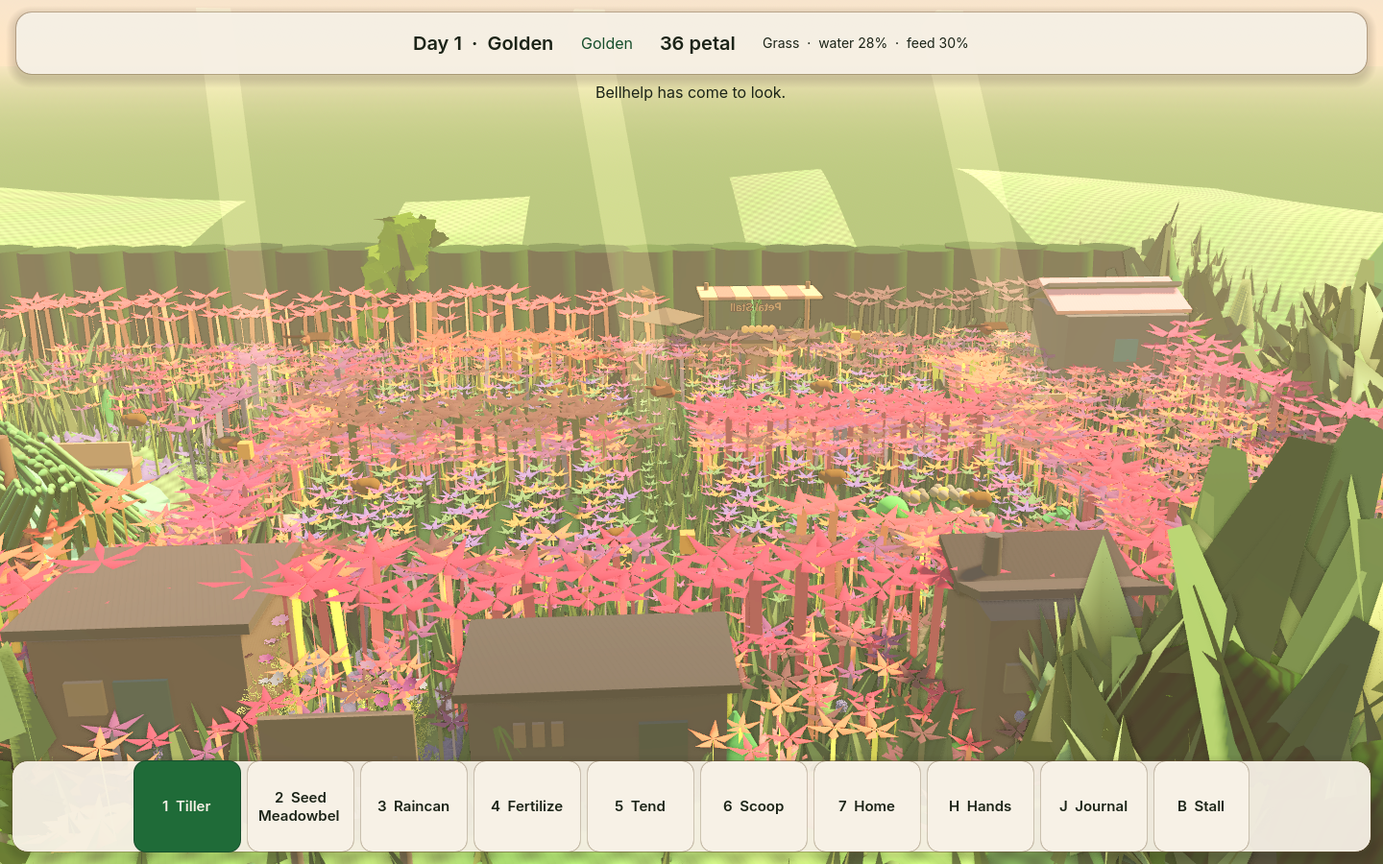
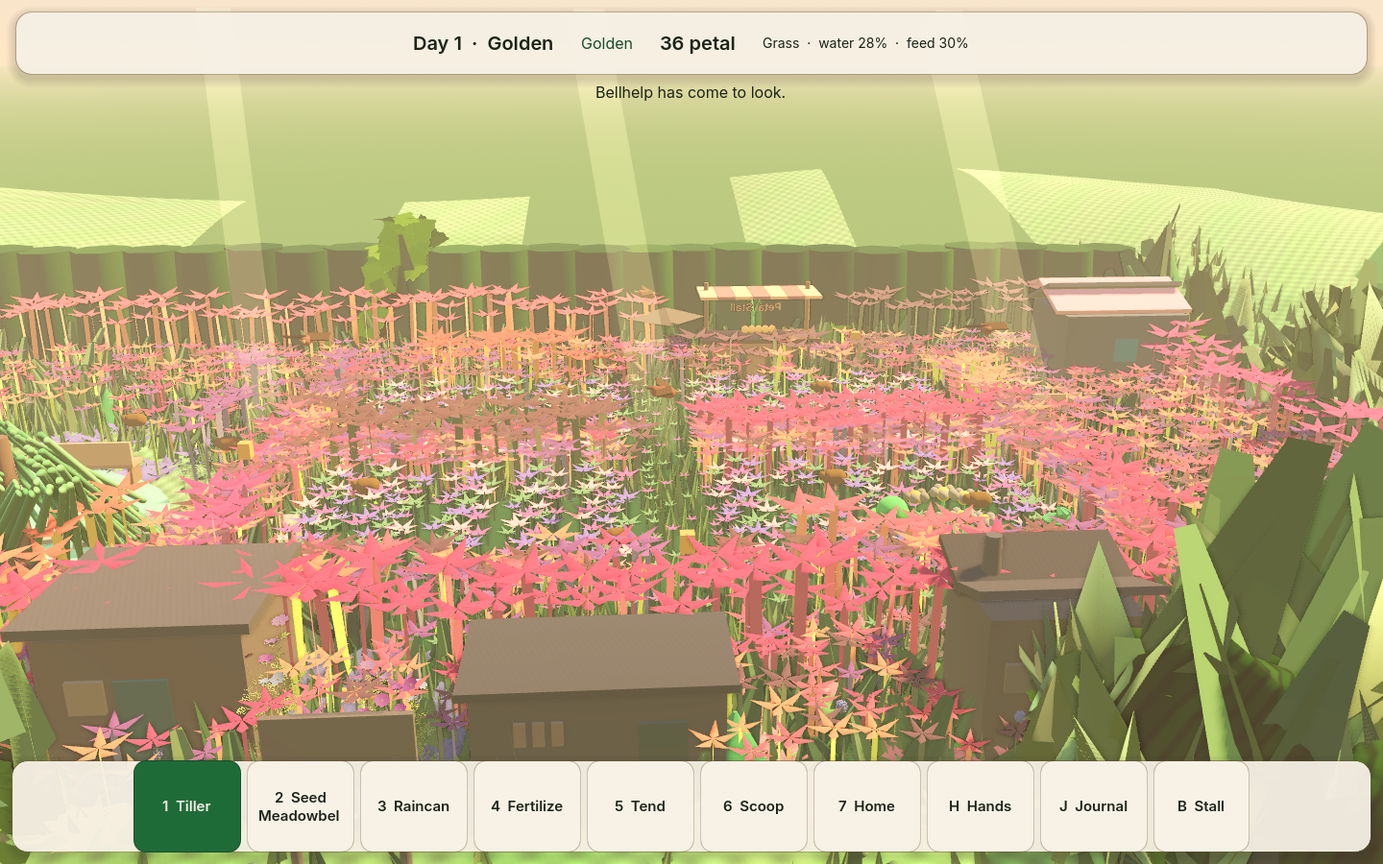
The tan bed flower reads as coral.
That rank was reading as soil. A petal at screen (926, 678) moved from (104, 115, 72) to (232, 138, 111). Hailo health answered and POST /v1/decide hung, so this was not a vote from that service.

diff --git a/docs/VISUAL_GAP.md b/docs/VISUAL_GAP.md
@@ -2,12 +2,12 @@
 
 Compared on 2026-09-23. The scene `tools/run.sh` launches is Hedge Hollow. Shots: `docs/screenshots/wave1_overview.png`, `wave1_jelly.png`, `wave1_lumen.png`. Targets: `docs/reference/petalwild_target_garden_01.png` and `petalwild_target_garden_02.png`.
 
-The north backdrop trees are shorter than the hedge. Crest leaf cards are 0.4 of their old size, and the far wall keeps one 2.5 m tuft in four. A row of dark shrubs stands just behind that wall. The east end is taller so its lip meets the hedge line. Light-green pixels in the upper opening band (screen y 265–320, x 40–1400) fell from 53% to 24%, and in the lower band (y 290–360, x 80–1200) from 36% to 13%. On the east lip (y 252–272, x 40–300) mean luminance fell from 200 to 162. The hill (y 200–245) did not change. The stall still sits in front of the middle of the wall. The bright blue band in that opening was the awning cloth, not a hole in the hedge. That stripe is darker now and reads about (171, 171, 173). A sky-blue detector on the overview (blue above 200, ahead of red by 20 and of green by 10) is 0. The shrub row behind the wall was lifting to pale green under the sun. The same light-green check (green ahead of red by 15 and of blue by 20, green above 140) now covers 1.2% of the upper band, down from 3.5% on the previous shot. The crest leaf cards and the far trees were the pale pixels in the side openings. The upper hill (screen y 200–230) stayed at about (213, 224, 148). The ground sky below the horizon is green, so a hole in the hill reads as olive rather than pale sky. Bellhelp’s close-up shows five pointed lobes, five gap tips past them, a wide short rank inside that ring, a darker band, and a wider flared whorl. The dark throat stays. The wide skirt of spheres is gone. The bench and planter use a dark multiply on the prop texture, and bright plant-atlas texels are capped. The three lantern glasses are amber instead of pure white. The pink disk by the south-west rail, the untilled grass-plot tops, the meadowbell petals, the mauve bed, the resident hands, the light flagstones, the path dirt, and the loose stones are darkened so they stay under the sun. Eight bees drift over the beds. Four birds cross the garden by day and perch at dusk and in the rain. A planted meadowbell is three bells on a leaf pad, and every crop sits in a ring of eight leaves. Pure white on this overview is 0. On the previous shot the upper-band light-green check was 1.17% and the hill mean was (212.9, 224.4, 147.6). The hedge tea house stands in the lower left of the home shot. On that shot the same check was 1.30% (969 pixels) and the hill mean was (212.0, 223.6, 146.4). The research hut stands in the lower middle of that shot, where the check was 1.17% (874 pixels) and the hill mean was (212.0, 223.6, 146.4). The media foundry stands in the lower middle of that shot, where the check was 1.15% (862 pixels) and the hill mean was (212.0, 223.6, 146.4). The town hall board now stands in the south gate. On the town-hall shot the check was 1.29% (968 pixels) and the hill mean was (212.0, 223.6, 146.4). On the six-bloom shot the check was 1.54% (1155 pixels) and the hill mean was (212.0, 223.7, 146.5). Empty untilled beds now carry nine dark leaf discs and eight short flowers, and a tilled or planted bed clears them. On the leaf-cover shot the check was 1.60% (1197 pixels) and the hill mean was (212.1, 223.8, 146.5). Neighboring empty cells now share an overlapping dark lid, so the brown seam inside a plot closes. On the joined-lid shot the check was 1.61% (1208 pixels) and the hill mean was (212.1, 223.8, 146.5). A planted cell now keeps that dark lid, so the crop sits in the meadow instead of an inset square. On the planted-lid shot the check was 1.54% (1149 pixels) and the hill mean was (212.1, 223.7, 146.5). The north and south plots now meet across the lawn, and the north-south path stays open. On the bridge shot the check was 1.57% (1176 pixels) and the hill mean was (212.2, 223.8, 146.6). Flowers now sit on both lips of the north-south path, and the path center stays open. On the path-lip shot the check was 1.61% (1204 pixels) and the hill mean was (212.1, 223.8, 146.5). Flowers now spill past the outer edges of the four beds, and the path-center pixels are unchanged. On the bed-edge shot the check was 1.45% (1083 pixels) and the hill mean was (212.2, 223.9, 146.6). The north-south track is narrower, its shoulders are meadow, and the center stays stone. On the narrow-track shot the check was 1.46% (1091 pixels) and the hill mean was (212.2, 223.9, 146.6). The south and north tracks are narrower too, with flowers on their lips. On the track-lip shot the check was 1.45% (1083 pixels) and the hill mean was (212.2, 223.9, 146.6). The wooden frames and the inner hedge around the four beds are gone. The parish hedge stays. On the open-bed shot the check was 1.26% (940 pixels) and the hill mean was (212.0, 223.6, 146.4). On the stepping-stone shot the check was 1.52% (1136 pixels) and the hill mean was (212.0, 223.7, 146.5). On the smaller-stone shot the check was 1.16% (870 pixels) and the hill mean was (212.0, 223.6, 146.4). On the open-stone shot the check was 1.28% (955 pixels) and the hill mean was (212.2, 223.9, 146.6). On the flower-track shot the check was 1.53% (1148 pixels) and the hill mean was (212.2, 223.9, 146.6). On the track-grass shot the check was 1.21% (903 pixels) and the hill mean was (212.0, 223.6, 146.4). On the worn-walk shot the ledger wrote 1.56% (1166 pixels) and the hill mean (212.1, 223.7, 146.5). The same light-green check on that file is 3.72% (2780 of 74800). Empty meadow cells carry a fuller clump: larger leaves, larger blooms, and four more flowers in the gaps. Tilling one empty cell clears twenty-one instances. On that shot the check was 3.70% (2766 of 74800) and the hill mean was (212.1, 223.7, 146.5). A planted cell now keeps eight flowers on its rim, and the stem stays clear. Opening that cell into meadow adds the other thirteen. The worn centers stay open. On that shot the check was 3.55% (2657 of 74800) and the hill mean was (212.0, 223.7, 146.4). On that shot the check was 3.80% (2841 of 74800) and the hill mean was (212.1, 223.7, 146.5). On that shot the check was 3.82% (2855 of 74800) and the hill mean was (212.1, 223.8, 146.5). The north apron above the beds carries a tighter bloom grid. The worn walks, the stall spur, the rooms, and the pond stay open. On that shot the check was 3.80% (2844). Against the file before it the band gained 82 pixels and lost 93. The hill mean was (212.1, 223.8, 146.5). 6.62% of the pixels below the horizon changed, and 0.49% above y 320. The apron band (screen y 350–400) changed 17%. The bridge strips between the north and south beds carry a tighter bloom grid. The worn center between them stays open. On that shot the check was 3.78% (2831). Against the file before it the band gained 41 pixels and lost 54. The hill mean was (212.2, 223.8, 146.6). 4.59% of the pixels below the horizon changed, and 0.27% above y 320. The bridge band (screen y 486–525, x 343–1037) changed 6%. The lawn just inside the west hedge now carries a tighter bloom grid. The hedge wall stays. On this shot the check is 3.81% (2849). Against that file the band gained 66 pixels and lost 48. The hill mean is (212.1, 223.8, 146.5). 4.73% of the pixels below the horizon changed, and 0.32% above y 320. The west band (screen y 450–700, x 1260–1440) changed 9%, and rose pixels there went from 2147 to 2749. After dusk the three path lanterns brighten. On the night shot the pond lamp moved from (199, 157, 108) to (254, 197, 114). The afternoon shot stays as it is. The north apron continues east of the beds. The worn walks stay open. On this shot the check is 3.75% (2802 of 74800). Against that file the band gained 163 pixels and lost 210. The hill mean is (212.2, 223.9, 146.6). 28.18% of the pixels below the horizon changed, and 1.78% above y 320. The east apron band (screen y 370–450, x 40–560) changed 43.6%, and rose pixels there went from 27759 to 28986. The south lawn in front of the rooms carries a tighter bloom grid. The worn walks and the south hedge stay open. On this shot the check is 3.65% (2733 of 74800). Against that file the band gained 165 pixels and lost 234. The hill mean is (212.2, 223.9, 146.6). 29.84% of the pixels below the horizon changed, and 1.77% above y 320. The south band (screen y 740–860, x 100–900) changed 21.6%, and rose pixels there went from 8225 to 11752. Pure white is 0. The sky-blue detector is 0. The stall lamp brightens while the stall is open and dims after it shuts. The afternoon home shot stays as it is. On the stall close-up the frame mean moved from (135.4, 118.1, 81.9) to (144.7, 121.5, 86.0). After dusk the tea house window, the hut window, and the shed's south pane glow. On the night shot those panes read (254, 196, 111), (251, 190, 104), and (245, 201, 143). By day the tea and hut windows stay dark. The shed's south pane is in the afternoon shot. The stall awning warms while the stall is open and cools after it shuts. On the afternoon shot a stripe moved from (163, 163, 159) to (254, 193, 154) at screen (819, 306). The night shot stays as it is. On this shot the check is 3.77% (2823 of 74800). Against that file the band gained and lost within the sway of the hedge. The hill mean is (212.2, 223.8, 146.6). Pure white is 0. The sky-blue detector is 0.
+The north backdrop trees are shorter than the hedge. Crest leaf cards are 0.4 of their old size, and the far wall keeps one 2.5 m tuft in four. A row of dark shrubs stands just behind that wall. The east end is taller so its lip meets the hedge line. Light-green pixels in the upper opening band (screen y 265–320, x 40–1400) fell from 53% to 24%, and in the lower band (y 290–360, x 80–1200) from 36% to 13%. On the east lip (y 252–272, x 40–300) mean luminance fell from 200 to 162. The hill (y 200–245) did not change. The stall still sits in front of the middle of the wall. The bright blue band in that opening was the awning cloth, not a hole in the hedge. That stripe is darker now and reads about (171, 171, 173). A sky-blue detector on the overview (blue above 200, ahead of red by 20 and of green by 10) is 0. The shrub row behind the wall was lifting to pale green under the sun. The same light-green check (green ahead of red by 15 and of blue by 20, green above 140) now covers 1.2% of the upper band, down from 3.5% on the previous shot. The crest leaf cards and the far trees were the pale pixels in the side openings. The upper hill (screen y 200–230) stayed at about (213, 224, 148). The ground sky below the horizon is green, so a hole in the hill reads as olive rather than pale sky. Bellhelp’s close-up shows five pointed lobes, five gap tips past them, a wide short rank inside that ring, a darker band, and a wider flared whorl. The dark throat stays. The wide skirt of spheres is gone. The bench and planter use a dark multiply on the prop texture, and bright plant-atlas texels are capped. The three lantern glasses are amber instead of pure white. The pink disk by the south-west rail, the untilled grass-plot tops, the meadowbell petals, the mauve bed, the resident hands, the light flagstones, the path dirt, and the loose stones are darkened so they stay under the sun. Eight bees drift over the beds. Four birds cross the garden by day and perch at dusk and in the rain. A planted meadowbell is three bells on a leaf pad, and every crop sits in a ring of eight leaves. Pure white on this overview is 0. On the previous shot the upper-band light-green check was 1.17% and the hill mean was (212.9, 224.4, 147.6). The hedge tea house stands in the lower left of the home shot. On that shot the same check was 1.30% (969 pixels) and the hill mean was (212.0, 223.6, 146.4). The research hut stands in the lower middle of that shot, where the check was 1.17% (874 pixels) and the hill mean was (212.0, 223.6, 146.4). The media foundry stands in the lower middle of that shot, where the check was 1.15% (862 pixels) and the hill mean was (212.0, 223.6, 146.4). The town hall board now stands in the south gate. On the town-hall shot the check was 1.29% (968 pixels) and the hill mean was (212.0, 223.6, 146.4). On the six-bloom shot the check was 1.54% (1155 pixels) and the hill mean was (212.0, 223.7, 146.5). Empty untilled beds now carry nine dark leaf discs and eight short flowers, and a tilled or planted bed clears them. On the leaf-cover shot the check was 1.60% (1197 pixels) and the hill mean was (212.1, 223.8, 146.5). Neighboring empty cells now share an overlapping dark lid, so the brown seam inside a plot closes. On the joined-lid shot the check was 1.61% (1208 pixels) and the hill mean was (212.1, 223.8, 146.5). A planted cell now keeps that dark lid, so the crop sits in the meadow instead of an inset square. On the planted-lid shot the check was 1.54% (1149 pixels) and the hill mean was (212.1, 223.7, 146.5). The north and south plots now meet across the lawn, and the north-south path stays open. On the bridge shot the check was 1.57% (1176 pixels) and the hill mean was (212.2, 223.8, 146.6). Flowers now sit on both lips of the north-south path, and the path center stays open. On the path-lip shot the check was 1.61% (1204 pixels) and the hill mean was (212.1, 223.8, 146.5). Flowers now spill past the outer edges of the four beds, and the path-center pixels are unchanged. On the bed-edge shot the check was 1.45% (1083 pixels) and the hill mean was (212.2, 223.9, 146.6). The north-south track is narrower, its shoulders are meadow, and the center stays stone. On the narrow-track shot the check was 1.46% (1091 pixels) and the hill mean was (212.2, 223.9, 146.6). The south and north tracks are narrower too, with flowers on their lips. On the track-lip shot the check was 1.45% (1083 pixels) and the hill mean was (212.2, 223.9, 146.6). The wooden frames and the inner hedge around the four beds are gone. The parish hedge stays. On the open-bed shot the check was 1.26% (940 pixels) and the hill mean was (212.0, 223.6, 146.4). On the stepping-stone shot the check was 1.52% (1136 pixels) and the hill mean was (212.0, 223.7, 146.5). On the smaller-stone shot the check was 1.16% (870 pixels) and the hill mean was (212.0, 223.6, 146.4). On the open-stone shot the check was 1.28% (955 pixels) and the hill mean was (212.2, 223.9, 146.6). On the flower-track shot the check was 1.53% (1148 pixels) and the hill mean was (212.2, 223.9, 146.6). On the track-grass shot the check was 1.21% (903 pixels) and the hill mean was (212.0, 223.6, 146.4). On the worn-walk shot the ledger wrote 1.56% (1166 pixels) and the hill mean (212.1, 223.7, 146.5). The same light-green check on that file is 3.72% (2780 of 74800). Empty meadow cells carry a fuller clump: larger leaves, larger blooms, and four more flowers in the gaps. Tilling one empty cell clears twenty-one instances. On that shot the check was 3.70% (2766 of 74800) and the hill mean was (212.1, 223.7, 146.5). A planted cell now keeps eight flowers on its rim, and the stem stays clear. Opening that cell into meadow adds the other thirteen. The worn centers stay open. On that shot the check was 3.55% (2657 of 74800) and the hill mean was (212.0, 223.7, 146.4). On that shot the check was 3.80% (2841 of 74800) and the hill mean was (212.1, 223.7, 146.5). On that shot the check was 3.82% (2855 of 74800) and the hill mean was (212.1, 223.8, 146.5). The north apron above the beds carries a tighter bloom grid. The worn walks, the stall spur, the rooms, and the pond stay open. On that shot the check was 3.80% (2844). Against the file before it the band gained 82 pixels and lost 93. The hill mean was (212.1, 223.8, 146.5). 6.62% of the pixels below the horizon changed, and 0.49% above y 320. The apron band (screen y 350–400) changed 17%. The bridge strips between the north and south beds carry a tighter bloom grid. The worn center between them stays open. On that shot the check was 3.78% (2831). Against the file before it the band gained 41 pixels and lost 54. The hill mean was (212.2, 223.8, 146.6). 4.59% of the pixels below the horizon changed, and 0.27% above y 320. The bridge band (screen y 486–525, x 343–1037) changed 6%. The lawn just inside the west hedge now carries a tighter bloom grid. The hedge wall stays. On this shot the check is 3.81% (2849). Against that file the band gained 66 pixels and lost 48. The hill mean is (212.1, 223.8, 146.5). 4.73% of the pixels below the horizon changed, and 0.32% above y 320. The west band (screen y 450–700, x 1260–1440) changed 9%, and rose pixels there went from 2147 to 2749. After dusk the three path lanterns brighten. On the night shot the pond lamp moved from (199, 157, 108) to (254, 197, 114). The afternoon shot stays as it is. The north apron continues east of the beds. The worn walks stay open. On this shot the check is 3.75% (2802 of 74800). Against that file the band gained 163 pixels and lost 210. The hill mean is (212.2, 223.9, 146.6). 28.18% of the pixels below the horizon changed, and 1.78% above y 320. The east apron band (screen y 370–450, x 40–560) changed 43.6%, and rose pixels there went from 27759 to 28986. The south lawn in front of the rooms carries a tighter bloom grid. The worn walks and the south hedge stay open. On this shot the check is 3.65% (2733 of 74800). Against that file the band gained 165 pixels and lost 234. The hill mean is (212.2, 223.9, 146.6). 29.84% of the pixels below the horizon changed, and 1.77% above y 320. The south band (screen y 740–860, x 100–900) changed 21.6%, and rose pixels there went from 8225 to 11752. Pure white is 0. The sky-blue detector is 0. The stall lamp brightens while the stall is open and dims after it shuts. The afternoon home shot stays as it is. On the stall close-up the frame mean moved from (135.4, 118.1, 81.9) to (144.7, 121.5, 86.0). After dusk the tea house window, the hut window, and the shed's south pane glow. On the night shot those panes read (254, 196, 111), (251, 190, 104), and (245, 201, 143). By day the tea and hut windows stay dark. The shed's south pane is in the afternoon shot. The stall awning warms while the stall is open and cools after it shuts. On the afternoon shot a stripe moved from (163, 163, 159) to (254, 193, 154) at screen (819, 306). The night shot stays as it is. On this shot the check is 3.77% (2823 of 74800). Against that file the band gained and lost within the sway of the hedge. The hill mean is (212.2, 223.8, 146.6). Pure white is 0. The sky-blue detector is 0. One bed-flower rank was tan and read as soil. It is coral now. A petal at screen (926, 678) moved from (104, 115, 72) to (232, 138, 111). The night shot stays. On this shot the check is 3.74% (2796 of 74800). The hill mean is (212.2, 223.9, 146.6). Pure white is 0. The sky-blue detector is 0.
 
 ## Three largest gaps
 
-1. **Hedge skyline.** The crest cards and the far trees are darker. On this shot 3.77% of the upper band is still light-green (2823 of 74800 pixels). The previous file, same check, is 2802. Most of that mask sits at screen x 1240–1400 (2335 of 2823). The hill mean is (212.2, 223.8, 146.6). The stall still shows through the middle. The south rooms, the gate board, and the bed blooms sit lower and do not cover that edge. PETAL-05.
+1. **Hedge skyline.** The crest cards and the far trees are darker. On this shot 3.74% of the upper band is still light-green (2796 of 74800 pixels). The previous file, same check, is 2823. Most of that mask sits at screen x 1240–1400 (2320 of 2796). The hill mean is (212.2, 223.9, 146.6). The stall still shows through the middle. The south rooms, the gate board, and the bed blooms sit lower and do not cover that edge. PETAL-05.
 
 2. **Bellhelp.** Ten tips, a short rank inside them, a darker band, and a wider skirt. The dark throat is still the center. PETAL-03.
 
-3. **Plot grid.** The wooden frames and the inner hedge around the four beds are gone. The parish hedge stays. Flowers spill past the outer edges of the beds and still line the north-south path. The north-south, south, and north bed tracks no longer carry stones. Meadow, flowers, and the same lawn grass cover them. The stall spur and the pond path stay worn, and flowers line both edges. Empty cells carry a fuller clump. A planted cell keeps eight flowers on its rim, and the stem stays clear. The parish lawn carries the meadow up to the bed edge. The west margin and the north apron carry a tighter bloom grid. The bridge strips between the beds carry a tighter bloom grid. The lawn just inside the west hedge carries a tighter bloom grid. The north apron continues east of the beds. The south lawn in front of the rooms carries a tighter bloom grid. The hedge wall stays. The worn centers, the stall spur, and the center between the strips stay open. The rooms and the pond stay clear. The bridge boxes stay. The plates are one continuous planting. Overview pixels at pure white are 0. The brightest pixel on this overview is (251, 255, 217) at screen (161, 512). PETAL-06.
+3. **Plot grid.** The wooden frames and the inner hedge around the four beds are gone. The parish hedge stays. Flowers spill past the outer edges of the beds and still line the north-south path. The north-south, south, and north bed tracks no longer carry stones. Meadow, flowers, and the same lawn grass cover them. The stall spur and the pond path stay worn, and flowers line both edges. Empty cells carry a fuller clump. A planted cell keeps eight flowers on its rim, and the stem stays clear. The parish lawn carries the meadow up to the bed edge. The west margin and the north apron carry a tighter bloom grid. The bridge strips between the beds carry a tighter bloom grid. The lawn just inside the west hedge carries a tighter bloom grid. The north apron continues east of the beds. The south lawn in front of the rooms carries a tighter bloom grid. The hedge wall stays. The worn centers, the stall spur, and the center between the strips stay open. The rooms and the pond stay clear. The bridge boxes stay. One bed-flower rank was tan and read as soil. It is coral now. A petal at screen (926, 678) moved from (104, 115, 72) to (232, 138, 111). The night shot stays. The plates are one continuous planting. Overview pixels at pure white are 0. The brightest pixel on this overview is (251, 255, 217) at screen (161, 512). PETAL-06.

diff --git a/docs/PETALWILD_MASTER_STATE.md b/docs/PETALWILD_MASTER_STATE.md
@@ -68,10 +68,10 @@ The north backdrop trees are shorter than the hedge. Crest leaf cards are 0.4 sc
 
 Three largest gaps still open, against `docs/reference/petalwild_target_garden_01.png` and `petalwild_target_garden_02.png`:
 
-1. **Hedge skyline.** The crest cards and the far trees are darker. On this shot 3.77% of the upper band is still light-green (2823 of 74800 pixels). The previous file, same check, is 2802. Most of that mask sits at screen x 1240–1400 (2335 of 2823). The hill mean is (212.2, 223.8, 146.6). The stall still shows through the middle. The south rooms, the gate board, and the bed blooms sit lower and do not cover that edge. PETAL-05.
+1. **Hedge skyline.** The crest cards and the far trees are darker. On this shot 3.74% of the upper band is still light-green (2796 of 74800 pixels). The previous file, same check, is 2823. Most of that mask sits at screen x 1240–1400 (2320 of 2796). The hill mean is (212.2, 223.9, 146.6). The stall still shows through the middle. The south rooms, the gate board, and the bed blooms sit lower and do not cover that edge. PETAL-05.
 2. **Bellhelp.** Ten tips, a short rank inside them, a darker band, and a wider skirt. The dark throat is still the center. PETAL-03.
-3. **Plot grid.** The wooden frames and the inner hedge around the four beds are gone. The parish hedge stays. Flowers spill past the outer edges of the beds and still line the north-south path. The north-south, south, and north bed tracks no longer carry stones. Meadow, flowers, and the same lawn grass cover them. The stall spur and the pond path stay worn, and flowers line both edges. Empty cells carry a fuller clump. A planted cell keeps eight flowers on its rim, and the stem stays clear. The parish lawn carries the meadow up to the bed edge. The west margin and the north apron carry a tighter bloom grid. The bridge strips between the beds carry a tighter bloom grid. The lawn just inside the west hedge carries a tighter bloom grid. The north apron continues east of the beds. The south lawn in front of the rooms carries a tighter bloom grid. The hedge wall stays. The worn centers, the stall spur, and the center between the strips stay open. The rooms and the pond stay clear. The bridge boxes stay. The plates are one continuous planting. Overview pixels at pure white are 0. The brightest pixel on this overview is (251, 255, 217) at screen (161, 512). PETAL-06.
+3. **Plot grid.** The wooden frames and the inner hedge around the four beds are gone. The parish hedge stays. Flowers spill past the outer edges of the beds and still line the north-south path. The north-south, south, and north bed tracks no longer carry stones. Meadow, flowers, and the same lawn grass cover them. The stall spur and the pond path stay worn, and flowers line both edges. Empty cells carry a fuller clump. A planted cell keeps eight flowers on its rim, and the stem stays clear. The parish lawn carries the meadow up to the bed edge. The west margin and the north apron carry a tighter bloom grid. The bridge strips between the beds carry a tighter bloom grid. The lawn just inside the west hedge carries a tighter bloom grid. The north apron continues east of the beds. The south lawn in front of the rooms carries a tighter bloom grid. The hedge wall stays. The worn centers, the stall spur, and the center between the strips stay open. The rooms and the pond stay clear. The bridge boxes stay. One bed-flower rank was tan and read as soil. It is coral now. A petal at screen (926, 678) moved from (104, 115, 72) to (232, 138, 111). The night shot stays. The plates are one continuous planting. Overview pixels at pure white are 0. The brightest pixel on this overview is (251, 255, 217) at screen (161, 512). PETAL-06.
 
 ## Next integration
 
-Keep this build playable. The next pass stays inside `scenes/main.tscn` (Hedge Hollow). The creature chain through Gushorn can happen in this garden, and two resident Bellhelps raise the species to breeding. The later resident walks to the first, the journal says a pair is in the parish, a breeding pair leaves one young beside them, a thin meadow does not send that young to the hedge while the pair remains, a reload keeps that young, and off-screen they share the first resident's home kit. A resident who is petted until they trust your hands is bonded. By day they walk to the gardener, the journal keeps that trust beside the pair, and a reload keeps the bond. By day a resident on screen walks to a ripe plant they came for and bites when they reach it. That plant has to grow back. Off screen they bite without crossing the garden. A reload keeps them headed for the fruit. A dry crop droops and loses height until the bed is watered. A tired crop stands shorter until the bed is fed, and a dry one still droops. Left dry for six hours, it is gone from the bed, and a reload keeps that clock. A living crop tires its bed. By day Bram feeds the one under that crop's fertility line, thirst still comes first, the pouch is not spent, and a reload keeps that walk. He leaves a tired bramble when a settled Grapling is resting on it and feeds the next tired bed. If that cane is the only one, he leaves it. The bed readout says when a crop needs water, when it needs feed, when fruit is returning, when a cane is kept, and when the bells are filling, and when a reed is kept. A dry bed says thirst before the cane. A reload keeps that line. A visitor on the cane does not stop him. A visitor whose plants are gone walks to the gate, the journal says they are heading for the hedge, Nessa writes the departure into the parish book, and a reload keeps that walk. When two visitors leave on the same tick she writes both names. If one turns back, that name leaves the page and she still writes the other. If they all turn back, the page stays blank. A reload keeps them in the garden. On an even afternoon it rains from 11:00 through 16:30, Nessa walks the tea house, the hut, and the foundry, Bram walks the shed and the stall, Lumen paces the awning, nothing is filed, the beds take the water, and a reload keeps that shower and the round. A resident with a home kit walks to it and stays awake. With no kit they stay out in the rain. At night, with no kit, they sleep under the stall awning and go back to the flower in the morning. A pair still walks together. A kit still wins. A visitor walks under the stall awning in the rain and at night, and stays awake. In the morning they go back to the flower. A departure still goes to the gate, and a dry afternoon leaves them on the flower. Half an hour of rain carries seed from a ripe plant into the next empty tilled bed. A dry hour does not, and a reload keeps the seedling. In the mist the beds keep the water they already have. The mist does not water them, and it does not carry seed. An odd afternoon stays golden, including the capture hour. Reedic walks to Bulrush. A visitor keeps that walk. Once it has settled, it walks to a reed, on screen and off it, and a wet reed stays wet. A visitor does not hold the water, and a dry reed still dries. Rain cover, a home kit, and a departure still come first. A bonded Reedic stays in the pond. A reload keeps that reed. The bed readout says the reed is kept. Once that Bulrush settles, company arrives, and when the partner settles the journal says a pair. The later one wades to the first. In the pond a Bulrush and a Reedic sit in the water, and so does a young Bulrush. On the lawn, and under a home kit, they stand on the ground. A bonded Bulrush stays in the pond. A reload keeps that pair, and a home kit at night still wins. At dusk Pegapear walks to the nightlantern, and once it has settled the morning sends it back to the peach. A visitor at dusk walks to the lantern too. A resident bites that lantern at dusk and leaves the peach ripe. In the morning the bite is the peach, and the lantern stays ripe. A visitor does not bite. Night does not bite. Off screen the bite still lands. A reload keeps that bite. A bitten lantern on night-loam grows back. Without that loam it stays short. While it is short, dusk still walks to it, on screen and off. A bitten peach still draws the morning. The bed says a bitten crop is growing back once its water and feed are met. A lantern without night-loam says it needs that soil instead. A harvest leaves the same mark, thirst still comes first, and a ripe bed clears it. Off screen that walk continues. Rain cover, a home kit, and a departure still come first. A reload keeps the hour. Gushorn walks to the night-loam. Without a settled crown, one bed of it thins every four hours, and a nightlantern on that soil stops growing. A settled Gushorn holds the loam. Rain cover, a home kit, and a departure still come first. A reload keeps that clock. When fewer than four beds still hold it, a resident Dusknip lays the night-loam back, including under a nightlantern that had gone thin. A visitor does not. A Gushorn still short of the hedge turns back once that soil returns. A reload keeps the beds. Berrypatch walks to a bitten cane, on screen and off it. Once it has settled there, a wet fed cane ripens again. A visitor does not, and a dry or tired cane stays bitten. Rain cover, a home kit, and a departure still come first. A reload keeps that fruit. Grapling creeps, vine-slow, to a bramble, on screen and off it. Once it has settled and is resting on that cane, the bed stops tiring while the cane is wet. A visitor does not feed it, and a dry cane still tires. Rain cover, a home kit, and a departure still come first. A reload keeps the grapling on that cane. Cirlark and Dusknip walk to Bellhelp. A visitor Cirlark keeps that walk. Once it has settled, it walks to a short meadowbell, on screen and off it, and a wet fed bell fills in. A visitor does not fill it, and a dry or tired bell stays short. Rain cover, a home kit, and a departure still come first. A reload keeps that bell. The bed readout says the bells are filling. A departure is not followed. Rain cover and a home kit still win. A settler stays. A placed home kit is a moss shelter. Off-screen, a resident still bites a ripe plant they came for, and a reload keeps that bite. Grove Park is still not built. The hedge tea house stands on the south lawn. The research hut stands west of it, and the media foundry stands between them. The town hall is a board by the south gate. Meadowbells are a clump of three, and every crop sits in a ring of leaves. The wooden frames and the inner hedge around the four beds are gone. The parish hedge stays. Flowers spill past the outer edges of the beds and still line the north-south path. The north-south, south, and north bed tracks no longer carry stones. Meadow, flowers, and the same lawn grass cover them. The stall spur and the pond path stay worn, and flowers line both edges. The worn centers stay open. Empty meadow cells carry a fuller clump. A planted cell keeps eight flowers on its rim, and the stem stays clear. The worn centers stay open. The lawn just inside the west hedge carries a tighter bloom grid. The north apron continues east of the beds. The south lawn in front of the rooms carries a tighter bloom grid. The hedge wall stays. After dusk the three path lanterns brighten, and the afternoon shot stays as it is. On this shot 3.77% of the upper band is still light green (2823 of 74800 pixels). The previous file is 2802, mostly at screen x 1240–1400, and the stall still shows through the middle. The hill mean is (212.2, 223.8, 146.6). The south band (screen y 740–860, x 100–900) changed 21.6%. The stall lamp brightens while the stall is open and dims after it shuts. After dusk the tea house window, the hut window, and the shed's south pane glow. By day the tea and hut windows stay dark. The stall awning warms while the stall is open and cools after it shuts. The south rooms and the town hall board sit in the foreground. Bees sit on the flowers while it rains. Once they are on a bed, the parish book notes that bed once a day. The note spends nothing and does not raise trust. Rain does not write it. Nessa walks to that bed when she writes the line. A filing, a draft, and a departure still come first. A reload keeps that day and that walk. Do not paint that hill edge, do not cut the hill, and do not raise the east shrubs. Do not fill Bellhelp’s dark throat. Do not open a side demo. The Kenney/Cara grove in `scripts/presentation/` is not the running scene.
+Keep this build playable. The next pass stays inside `scenes/main.tscn` (Hedge Hollow). The creature chain through Gushorn can happen in this garden, and two resident Bellhelps raise the species to breeding. The later resident walks to the first, the journal says a pair is in the parish, a breeding pair leaves one young beside them, a thin meadow does not send that young to the hedge while the pair remains, a reload keeps that young, and off-screen they share the first resident's home kit. A resident who is petted until they trust your hands is bonded. By day they walk to the gardener, the journal keeps that trust beside the pair, and a reload keeps the bond. By day a resident on screen walks to a ripe plant they came for and bites when they reach it. That plant has to grow back. Off screen they bite without crossing the garden. A reload keeps them headed for the fruit. A dry crop droops and loses height until the bed is watered. A tired crop stands shorter until the bed is fed, and a dry one still droops. Left dry for six hours, it is gone from the bed, and a reload keeps that clock. A living crop tires its bed. By day Bram feeds the one under that crop's fertility line, thirst still comes first, the pouch is not spent, and a reload keeps that walk. He leaves a tired bramble when a settled Grapling is resting on it and feeds the next tired bed. If that cane is the only one, he leaves it. The bed readout says when a crop needs water, when it needs feed, when fruit is returning, when a cane is kept, and when the bells are filling, and when a reed is kept. A dry bed says thirst before the cane. A reload keeps that line. A visitor on the cane does not stop him. A visitor whose plants are gone walks to the gate, the journal says they are heading for the hedge, Nessa writes the departure into the parish book, and a reload keeps that walk. When two visitors leave on the same tick she writes both names. If one turns back, that name leaves the page and she still writes the other. If they all turn back, the page stays blank. A reload keeps them in the garden. On an even afternoon it rains from 11:00 through 16:30, Nessa walks the tea house, the hut, and the foundry, Bram walks the shed and the stall, Lumen paces the awning, nothing is filed, the beds take the water, and a reload keeps that shower and the round. A resident with a home kit walks to it and stays awake. With no kit they stay out in the rain. At night, with no kit, they sleep under the stall awning and go back to the flower in the morning. A pair still walks together. A kit still wins. A visitor walks under the stall awning in the rain and at night, and stays awake. In the morning they go back to the flower. A departure still goes to the gate, and a dry afternoon leaves them on the flower. Half an hour of rain carries seed from a ripe plant into the next empty tilled bed. A dry hour does not, and a reload keeps the seedling. In the mist the beds keep the water they already have. The mist does not water them, and it does not carry seed. An odd afternoon stays golden, including the capture hour. Reedic walks to Bulrush. A visitor keeps that walk. Once it has settled, it walks to a reed, on screen and off it, and a wet reed stays wet. A visitor does not hold the water, and a dry reed still dries. Rain cover, a home kit, and a departure still come first. A bonded Reedic stays in the pond. A reload keeps that reed. The bed readout says the reed is kept. Once that Bulrush settles, company arrives, and when the partner settles the journal says a pair. The later one wades to the first. In the pond a Bulrush and a Reedic sit in the water, and so does a young Bulrush. On the lawn, and under a home kit, they stand on the ground. A bonded Bulrush stays in the pond. A reload keeps that pair, and a home kit at night still wins. At dusk Pegapear walks to the nightlantern, and once it has settled the morning sends it back to the peach. A visitor at dusk walks to the lantern too. A resident bites that lantern at dusk and leaves the peach ripe. In the morning the bite is the peach, and the lantern stays ripe. A visitor does not bite. Night does not bite. Off screen the bite still lands. A reload keeps that bite. A bitten lantern on night-loam grows back. Without that loam it stays short. While it is short, dusk still walks to it, on screen and off. A bitten peach still draws the morning. The bed says a bitten crop is growing back once its water and feed are met. A lantern without night-loam says it needs that soil instead. A harvest leaves the same mark, thirst still comes first, and a ripe bed clears it. Off screen that walk continues. Rain cover, a home kit, and a departure still come first. A reload keeps the hour. Gushorn walks to the night-loam. Without a settled crown, one bed of it thins every four hours, and a nightlantern on that soil stops growing. A settled Gushorn holds the loam. Rain cover, a home kit, and a departure still come first. A reload keeps that clock. When fewer than four beds still hold it, a resident Dusknip lays the night-loam back, including under a nightlantern that had gone thin. A visitor does not. A Gushorn still short of the hedge turns back once that soil returns. A reload keeps the beds. Berrypatch walks to a bitten cane, on screen and off it. Once it has settled there, a wet fed cane ripens again. A visitor does not, and a dry or tired cane stays bitten. Rain cover, a home kit, and a departure still come first. A reload keeps that fruit. Grapling creeps, vine-slow, to a bramble, on screen and off it. Once it has settled and is resting on that cane, the bed stops tiring while the cane is wet. A visitor does not feed it, and a dry cane still tires. Rain cover, a home kit, and a departure still come first. A reload keeps the grapling on that cane. Cirlark and Dusknip walk to Bellhelp. A visitor Cirlark keeps that walk. Once it has settled, it walks to a short meadowbell, on screen and off it, and a wet fed bell fills in. A visitor does not fill it, and a dry or tired bell stays short. Rain cover, a home kit, and a departure still come first. A reload keeps that bell. The bed readout says the bells are filling. A departure is not followed. Rain cover and a home kit still win. A settler stays. A placed home kit is a moss shelter. Off-screen, a resident still bites a ripe plant they came for, and a reload keeps that bite. Grove Park is still not built. The hedge tea house stands on the south lawn. The research hut stands west of it, and the media foundry stands between them. The town hall is a board by the south gate. Meadowbells are a clump of three, and every crop sits in a ring of leaves. The wooden frames and the inner hedge around the four beds are gone. The parish hedge stays. Flowers spill past the outer edges of the beds and still line the north-south path. The north-south, south, and north bed tracks no longer carry stones. Meadow, flowers, and the same lawn grass cover them. The stall spur and the pond path stay worn, and flowers line both edges. The worn centers stay open. Empty meadow cells carry a fuller clump. A planted cell keeps eight flowers on its rim, and the stem stays clear. The worn centers stay open. The lawn just inside the west hedge carries a tighter bloom grid. The north apron continues east of the beds. The south lawn in front of the rooms carries a tighter bloom grid. The hedge wall stays. After dusk the three path lanterns brighten, and the afternoon shot stays as it is. On this shot 3.74% of the upper band is still light green (2796 of 74800 pixels). One bed-flower rank was tan and read as soil. It is coral now. A petal at screen (926, 678) moved from (104, 115, 72) to (232, 138, 111). The night shot stays. The previous file is 2802, mostly at screen x 1240–1400, and the stall still shows through the middle. The hill mean is (212.2, 223.8, 146.6). The south band (screen y 740–860, x 100–900) changed 21.6%. The stall lamp brightens while the stall is open and dims after it shuts. After dusk the tea house window, the hut window, and the shed's south pane glow. By day the tea and hut windows stay dark. The stall awning warms while the stall is open and cools after it shuts. The south rooms and the town hall board sit in the foreground. Bees sit on the flowers while it rains. Once they are on a bed, the parish book notes that bed once a day. The note spends nothing and does not raise trust. Rain does not write it. Nessa walks to that bed when she writes the line. A filing, a draft, and a departure still come first. A reload keeps that day and that walk. Do not paint that hill edge, do not cut the hill, and do not raise the east shrubs. Do not fill Bellhelp’s dark throat. Do not open a side demo. The Kenney/Cara grove in `scripts/presentation/` is not the running scene.
